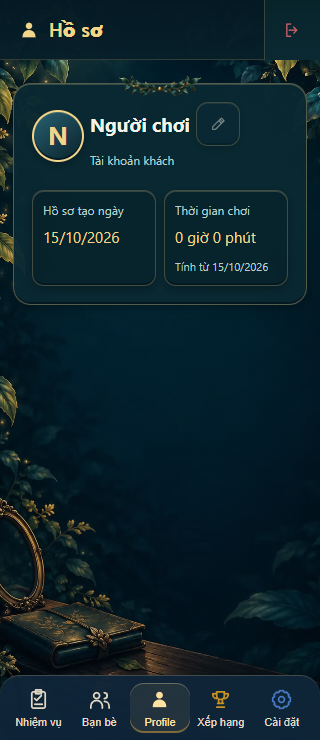
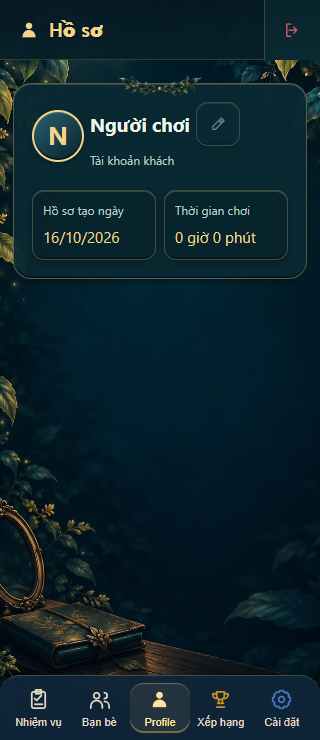
fix: remove tracking start date from profile

diff --git a/js/accountPanel.js b/js/accountPanel.js
@@ -109,7 +109,6 @@ function profileDetails(content) {
   const timeLabel = document.createElement('dt'); timeLabel.textContent = 'Thời gian chơi'; const time = document.createElement('dd');
   const timeValue = document.createElement('span'); time.append(timeValue);
   joinedCard.append(joinedLabel, joined); timeCard.append(timeLabel, time); details.append(joinedCard, timeCard);
-  const since = document.createElement('p'); since.className = 'account-play-since'; time.append(since);
   const status = document.createElement('p'); status.className = 'account-play-since'; status.setAttribute('aria-live', 'polite');
   content.append(details, status);
   const formatDate = value => new Date(value).toLocaleDateString('vi-VN', { day: '2-digit', month: '2-digit', year: 'numeric' });
@@ -118,7 +117,6 @@ function profileDetails(content) {
     joinedLabel.textContent = state.onlineAccount ? 'Tham gia' : 'Hồ sơ tạo ngày';
     joined.textContent = state.joinedAt ? formatDate(state.joinedAt) : '—';
     timeValue.textContent = state.totalPlayMs === null ? '—' : formatProfilePlaytime(state.totalPlayMs);
-    since.textContent = state.trackedSince ? `Tính từ ${formatDate(state.trackedSince)}` : '';
     status.textContent = state.phase === 'error' ? 'Chưa cập nhật được thời gian chơi.' : '';
   };
   render({ onlineAccount: false, totalPlayMs: null });

diff --git a/tests/ui/profile-stats.spec.js b/tests/ui/profile-stats.spec.js
@@ -29,7 +29,8 @@ test('three games share durable active time, excluding startup and nested pause,
   await expect.poll(total).toBe(96000);
   await page.locator('[data-dock-action="profile"]').click();
   await expect(page.locator('.account-play-details')).toContainText('0 giờ 1 phút');
-  await expect(page.locator('.account-play-since').first()).toContainText('Tính từ');
+  await expect(page.locator('.account-play-details')).not.toContainText('Tính từ');
+  expect(await page.evaluate(async () => (await import('/js/profileStatsService.js')).getProfileStatsService().getState().trackedSince)).toBeGreaterThan(0);
   await page.reload();
   await expect(page.locator('[data-dock-action="profile"]')).toBeVisible();
   await expect.poll(total).toBe(96000);

diff --git a/CONTEXT.md b/CONTEXT.md
@@ -4,6 +4,8 @@
 
 ## Sản phẩm
 
+- Profile đã bỏ dòng “Tính từ…” theo yêu cầu ngày2026-10-16; chỉ hiển thị ngày tham gia/tạo hồ sơ và tổng thời gian chơi. trackedSince/counter vẫn giữ nội bộ, không đổi service/schema/save. UI5/5, review độc lập1/1, check/build web/Android pass. Ảnh và bằng chứng ở `docs/design/app-tabs/QA.md`.
+
 - `HOME_CAROUSEL_PLAN.md` hoàn tất: Home một trò ở giữa, vuốt trái/phải, hé trò hai bên; mũi tên/chấm và bàn phím. Native scroll-snap, scope sở hữu frame/observer/listener, không clone/tự chạy; giữ art/save/catalog/navigation và nội dung tab/popup. Phase1 commit665dafb. Home/registry17ca, regression52/52, review cuối12/12 và touch lặp5/5 đạt; check/build web/Android pass. QA: `docs/design/home-carousel/QA.md`. Không còn gate triển khai active; S22 Ultra thật còn chờ.
 
 - Popup Thử thách/Vô tận của cả3trò đã đồng bộ với popup màn Hành trình: xem thông tin màn1 rồi bấm Chơi, không chọn độ khó; thời gian/mục tiêu/gợi ý/khay/chủ đề theo config/profile. Vô tận ghi Không giới hạn, không lặp popup intro. Hủy không đổi save/session/độ khó thường; submit có guard/retry. QA45ca có kết quả đạt, review độc lập14/14; check/build web/build Android pass. Không đổi save schema/luật chơi. Chi tiết: `docs/design/special-mode-preview/QA.md`.
@@ -14,7 +16,7 @@
 
 - `POPUP_POLISH_PLAN.md`: phase1–5 hoàn tất trong phạm vi được giao, không còn kế hoạch triển khai active. Exit bản đồ và mọi screen chức năng (gồm Cửa hàng/Bộ sưu tập) gắn header; Xu giữa Cửa hàng; title Bộ sưu tập không lặp game. Popup bám board, bản đồ dùng cùng mốc chrome ngay lần đầu; menu tạm dừng Vườn đêm có Tiếp tục. QA: `docs/design/popups/QA.md`. Hai mẫu Home và prompt ở `docs/design/home-concepts/README.md`, là nguồn tham khảo cho Home hiện tại. Không deploy/đổi save; S22 Ultra thật còn chờ.
 
-- Tinh chỉnh tab ngày2026-10-15: sửa tên ngay cạnh tên với bút/Lưu/Hủy, ngày bắt đầu theo dõi nằm trong ô thời gian chơi; ẩn thông báo đồng bộ bình thường. Family xếp hạng canh giữa; top3 huy chương SVG, các hạng sau số sáng không khung. Header tối và exit gắn góc phải cố định trên cả5tab. UI/emulator/check/build đã đạt; chi tiết ở `docs/design/app-tabs/QA.md`. Không đổi API/schema/save/Auth.
+- Tinh chỉnh tab ngày2026-10-15: sửa tên ngay cạnh tên với bút/Lưu/Hủy, dòng ngày bắt đầu theo dõi đã được bỏ khỏi giao diện ngày2026-10-16; ẩn thông báo đồng bộ bình thường. Family xếp hạng canh giữa; top3 huy chương SVG, các hạng sau số sáng không khung. Header tối và exit gắn góc phải cố định trên cả5tab. UI/emulator/check/build đã đạt; chi tiết ở `docs/design/app-tabs/QA.md`. Không đổi API/schema/save/Auth.
 
 - `APP_TABS_VISUAL_PLAN.md`: Phase0–5 đã hoàn tất, mỗi phase một commit; không còn kế hoạch triển khai active. Bốn nền WebP mới53–112KB; Profile có name editor và stats/account trong content; Cài đặt3nhóm cuộn gồm Help/Reset; Xếp hạng khôngrefresh thường trực, fresh khi mở, menu128px và familyheading. Giữ ranking v3/Auth/save/private stats. QA: `docs/design/app-tabs/QA.md`. Không Hosting/APK/Firebase rollout; S22 Ultra thật còn chờ.
 

diff --git a/ARCHITECTURE.md b/ARCHITECTURE.md
@@ -181,7 +181,7 @@ Pair snapshot giữ seed/theme, bàn thật, score/moves/misses/matched, lucky h
 
 `styles/app-tabs.css` sở hữu palette/surface/button và background theo `adventure-screen[data-screen]`;4ảnh WebP chỉ tải khi screen tương ứng mount, Home/map/gameplay không dùng nền này. Pipeline `scripts/prepare-app-tab-assets.py` tạo output từ PNG master trong docs; flourish runtime384px giữ alpha. Xếp hạng giữ Vườn đêm cũ. Không preload toàn bộ nền hoặc thêm animation loop.
 
-`accountPanel.js` sở hữu Profile hero/name editor/stats/account; Google action nằm content thay footer. Draft chỉ thay khi người dùng mở/hủy/lưu hoặc UID đổi; saving/linking khóa đúng controls, dispose không nhận kết quả cũ. `styles/profile.css` là owner bố cục này. Editor thay tên ngay trong cùng hàng; bút đổi thành xác nhận, Hủy trả lại tên. Ngày bắt đầu tracking thuộc ô thời gian chơi; trạng thái synced/disabled không hiện thông báo thành công thường trực. Nguồn Auth/ngày tạo/playtime và privacy giữ nguyên.
+`accountPanel.js` sở hữu Profile hero/name editor/stats/account; Google action nằm content thay footer. Draft chỉ thay khi người dùng mở/hủy/lưu hoặc UID đổi; saving/linking khóa đúng controls, dispose không nhận kết quả cũ. `styles/profile.css` là owner bố cục này. Editor thay tên ngay trong cùng hàng; bút đổi thành xác nhận, Hủy trả lại tên. Hồ sơ chỉ hiện ngày tham gia/tạo hồ sơ và tổng thời gian chơi; trackedSince vẫn giữ trong stats nhưng không render dòng Tính từ theo yêu cầu ngày2026-10-16; trạng thái synced/disabled không hiện thông báo thành công thường trực. Nguồn Auth/ngày tạo/playtime và privacy giữ nguyên.
 
 `settings.js` di chuyển cùng settings DOM vào screen/pause modal và trả về home khi hủy; Help/Reset trong nhóm cuối, handler tạm được gỡ khi destroy. IDs, saveSetting, audio và handoff của từng controller giữ nguyên. `styles/settings.css` sở hữu nhóm/control/toggle/native-range; fill variable cập nhật theo giá trị, reduced-motion không animate thumb.
 

diff --git a/docs/design/app-tabs/QA.md b/docs/design/app-tabs/QA.md
@@ -85,3 +85,9 @@ Chọn giữ DOM/handler exit hiện tại và đổi bố cục tại owner CSS
 | npm run build / build:android |Pass cả hai; không cap sync/APK/Hosting |
 
 Ảnh runtime: [sửa tên trực tiếp](qa/profile-editing-412.png), [Profile](qa/profile-inline-412.png), [Cài đặt và exit](qa/settings-412.png), [huy chương/canh giữa](qa/mobile-level-challenge.png). Screenshot layout dùng fixture, không đưa dữ liệu mẫu vào sản phẩm. Đã xem ảnh runtime; Galaxy S22 Ultra thật vẫn chờ thiết bị theo xác nhận người dùng. Số đo Node/browser không phải nghiệm thu FPS điện thoại.
+
+## Bỏ dòng ngày theo dõi — 2026-10-16
+
+Bỏ node và render “Tính từ…” trong Profile; chỉ còn ngày tham gia/tạo hồ sơ và tổng thời gian chơi. Không ẩn bằng CSS, không đổi trackedSince, counter, service, subscription hoặc save. CSS account-play-since vẫn dùng cho trạng thái lỗi aria-live. Kiểm tra mục tiêu5/5:4viewport320/412/844/1024 và tổng thời gian3trò giữ sau reload. Review độc lập1/1 approve; trackedSince vẫn>0, tổng96000ms không thay. Ảnh profile4viewport đã cập nhật và kiểm trực quan.
+
+Cổng cuối cho thay đổi này: npm run check, npm run build và npm run build:android đều exit0; git diff --check đạt. Không deploy/đổi API hoặc dữ liệu lưu.
